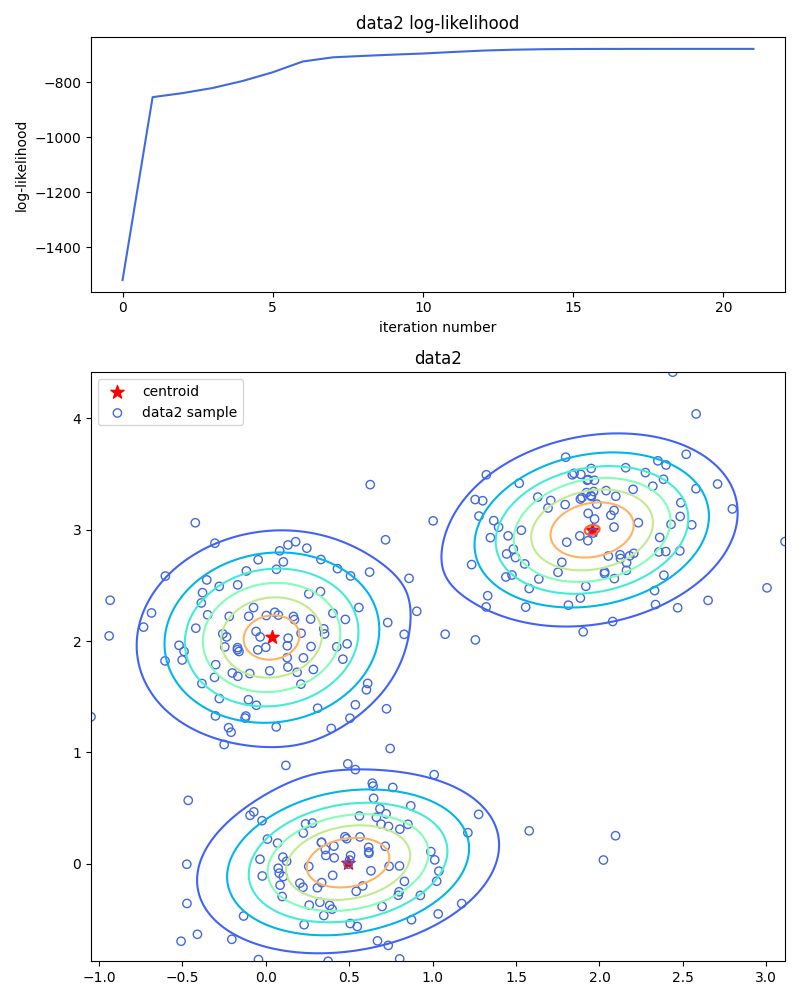
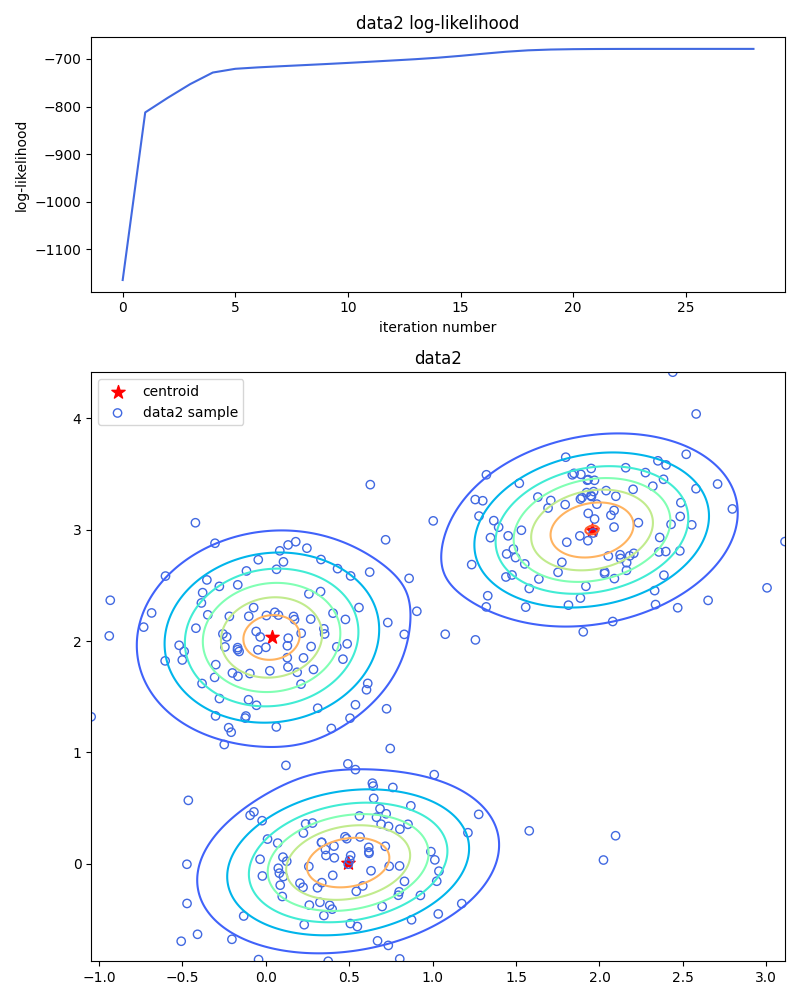
実行時間を計測＆コマンドライン表示

diff --git a/ex7/r_tanaka/main.py b/ex7/r_tanaka/main.py
@@ -3,6 +3,21 @@ import pandas as pd
 import numpy as np
 import matplotlib.pyplot as plt
 from scipy.stats import norm
+from functools import wraps
+import time
+
+
+def stop_watch(func):
+    @wraps(func)
+    def wrapper(*args, **kargs):
+        start = time.time()
+        result = func(*args, **kargs)
+        process_time = round(time.time() - start, 4)
+        print("")
+        print("--+--+--+--+--+--+--+--+--+--+--+--+--+--+--+--+--+--+--+--+--")
+        print(f"It took {process_time} sec to process {func.__name__}")
+        return result
+    return wrapper
 
 
 def gaussian(x, mu, sigma):
@@ -86,6 +101,7 @@ def calc_loglikelihood(input, pi, mu, sigma):
     return loglikelihood
 
 
+@stop_watch
 def em_algorithm(input, pi, mu, sigma, epsilon=0.001, max_iter=50):
     """calculate EM-algorithm
 
@@ -206,6 +222,20 @@ def main():
     # run em-algorithm & update parameters
     loglikelihood, pi, mu, sigma = em_algorithm(data, pi, mu, sigma)
 
+    print("--------------------------------------------------------------")
+    print("EM algorithm was iterated %i times" % len(loglikelihood))
+    print("--------------------------------------------------------------")
+    print("π　(mixed number) is: ")
+    print(pi)
+    print("")
+    print("μ (means of distributions) is: ")
+    print(mu)
+    print("")
+    print("Σ (variances of distributions) is: ")
+    print(sigma)
+    print("--+--+--+--+--+--+--+--+--+--+--+--+--+--+--+--+--+--+--+--+--")
+    print("")
+
     if dim == 1:
         # set drawing area for data1
         fig, ax = plt.subplots(2, 1)
@@ -218,8 +248,8 @@ def main():
         for i in range(k):
             pdfs[:, i] = pi[i] * norm.pdf(x, loc=mu[i], scale=sigma[i])
         ax[1].scatter(data, np.zeros(len(data)), facecolor="None", edgecolors="royalblue", label="data1 sample")
-        ax[1].scatter(mu, np.zeros(len(mu)), s=100, marker="*", c="gold", label="centroids")
-        ax[1].plot(x, np.sum(pdfs, axis=1), label="GMM", c='royalblue')
+        ax[1].scatter(mu, np.zeros(len(mu)), s=100, marker="*", c="r", label="centroids")
+        ax[1].plot(x, np.sum(pdfs, axis=1), label="GMM", c='lime')
         ax[1].set(title="GMM data1", xlabel="data1", ylabel="mixture gaussian distribution")
         ax[1].legend()
 
